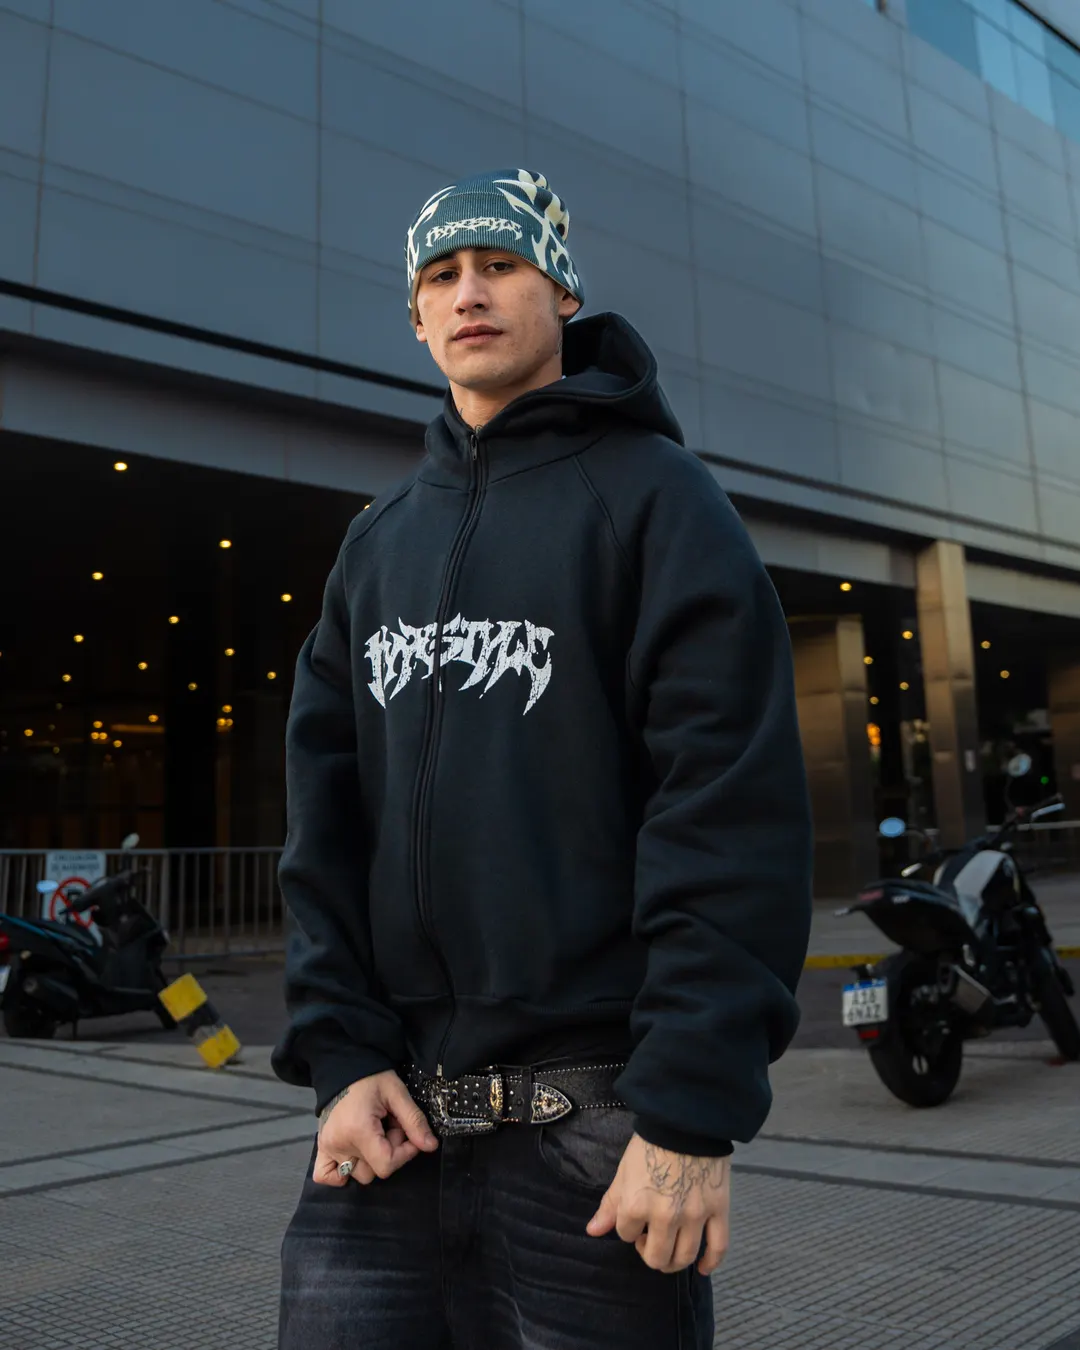
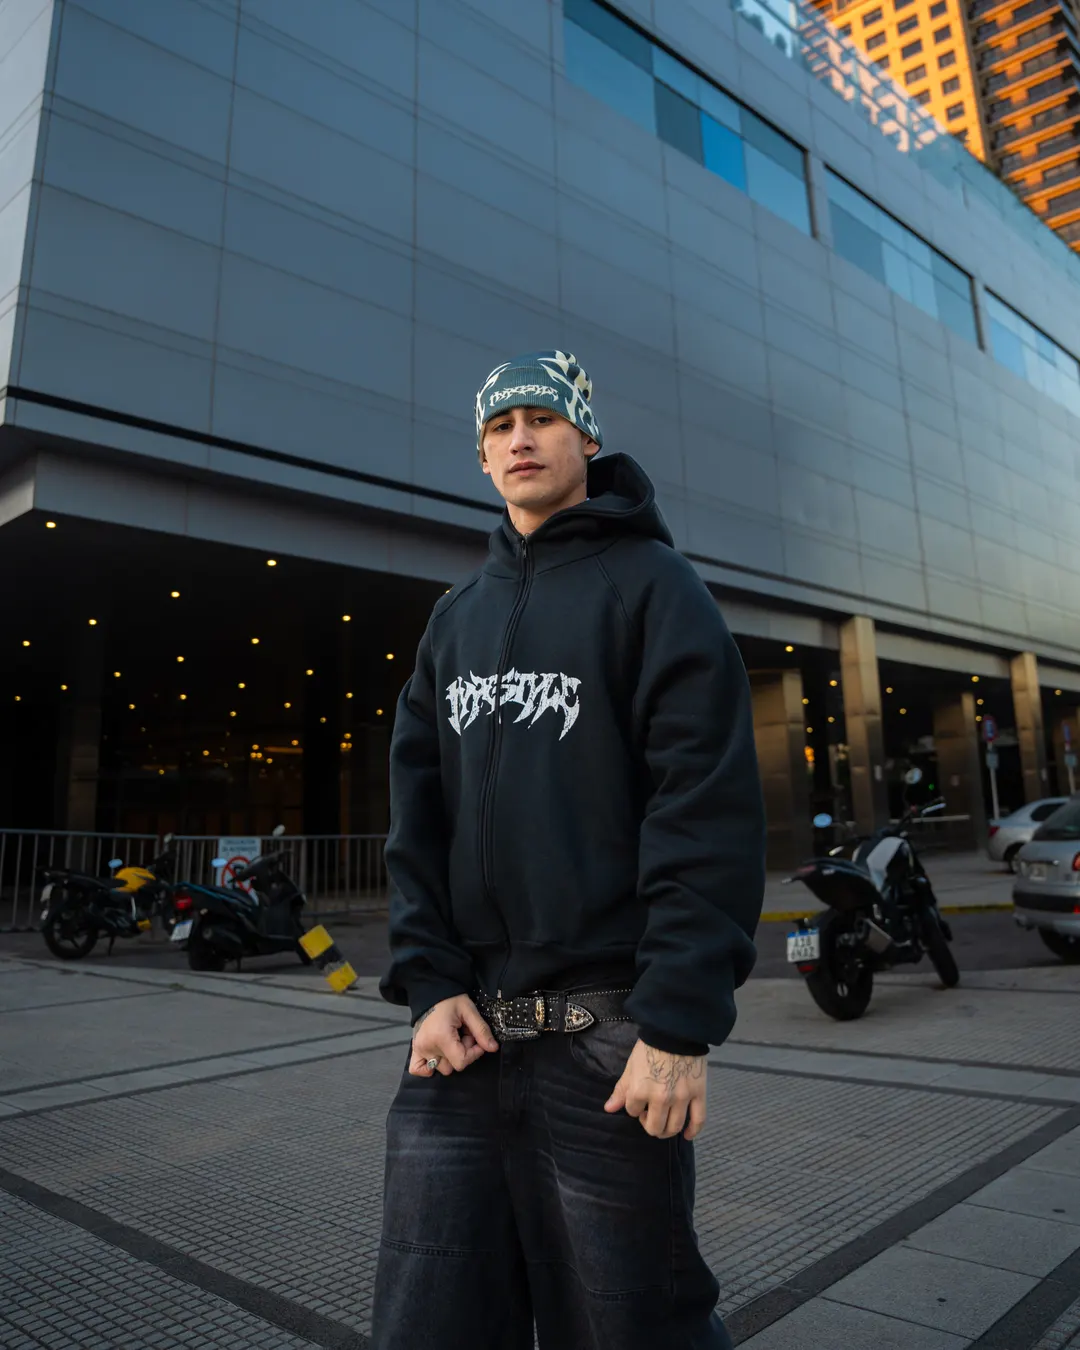
feat(home): Visto en — mockups de Jugo como agotados, Polima más cerrado
- Jugo: Black Zip Hoodie V2 y Beanie Tribals (fueraDeCatalogo, agotados).
  Foto con su encuadre original.
- Polima: recorte más cerrado arriba y a la izquierda, centrado.

diff --git a/next-app/data/vistoEn.ts b/next-app/data/vistoEn.ts
@@ -49,8 +49,8 @@ export const VISTO_EN: VistoEnPost[] = [
   { id: 'mir-04470', artista: 'Mir Nicolás', ig: ['mirnicolas.vyg'], contexto: 'La Ciudad del Pop', link: { href: '/lookbook-mir', label: 'Ver el lookbook' }, alt: 'Mir Nicolás con la remera de La Ciudad del Pop', slugs: [] },
   { id: 'nicki-selfie', artista: 'Nicki Nicole', ig: ['nicki.nicole'], alt: 'Selfie de Nicki Nicole con el hoodie Grey HStars', slugs: ['hoodie-grey-hstars'] },
   { id: 'cerounno-05', artista: 'Cerounno', ig: ['cerounno'], alt: 'Cerounno con el Half-Zip Polo Black', slugs: CEROUNNO },
-  // Jugo: zip hoodie negro con logo gótico y beanie, no están en Woo.
-  { id: 'jugo-01', artista: 'Jugo', ig: ['juicynise7'], alt: 'Jugo con el zip hoodie negro de Hype y beanie', slugs: [] },
+  // Jugo: Black Zip Hoodie V2 y Beanie Tribals, nunca estuvieron en Woo.
+  { id: 'jugo-01', artista: 'Jugo', ig: ['juicynise7'], alt: 'Jugo con el Black Zip Hoodie V2 y el Beanie Tribals', slugs: [], fueraDeCatalogo: [{ nombre: 'Black Zip Hoodie V2', imagen: '/visto-en/prendas/black-zip-hoodie-v2.webp' }, { nombre: 'Beanie Tribals', imagen: '/visto-en/prendas/beanie-tribals.webp' }] },
   { id: 'fro-f025', artista: 'FRO!', ig: ['frozouda'], contexto: 'Prueba de sonido de ART MEDIA', alt: 'FRO! sentado en el pasto con el conjunto camo', slugs: CAMO },
   { id: 'mir-04544', artista: 'Mir Nicolás', ig: ['mirnicolas.vyg'], contexto: 'La Ciudad del Pop', link: { href: '/lookbook-mir', label: 'Ver el lookbook' }, alt: 'Mir Nicolás y amigos con el merch de La Ciudad del Pop', slugs: [] },
   { id: 'nicki-tini', artista: 'Nicki Nicole y Tini', ig: ['nicki.nicole', 'tinistoessel'], alt: 'Nicki Nicole con la Mesh Camo Blue junto a Tini', slugs: ['mesh-camo-blue-tee'] },
